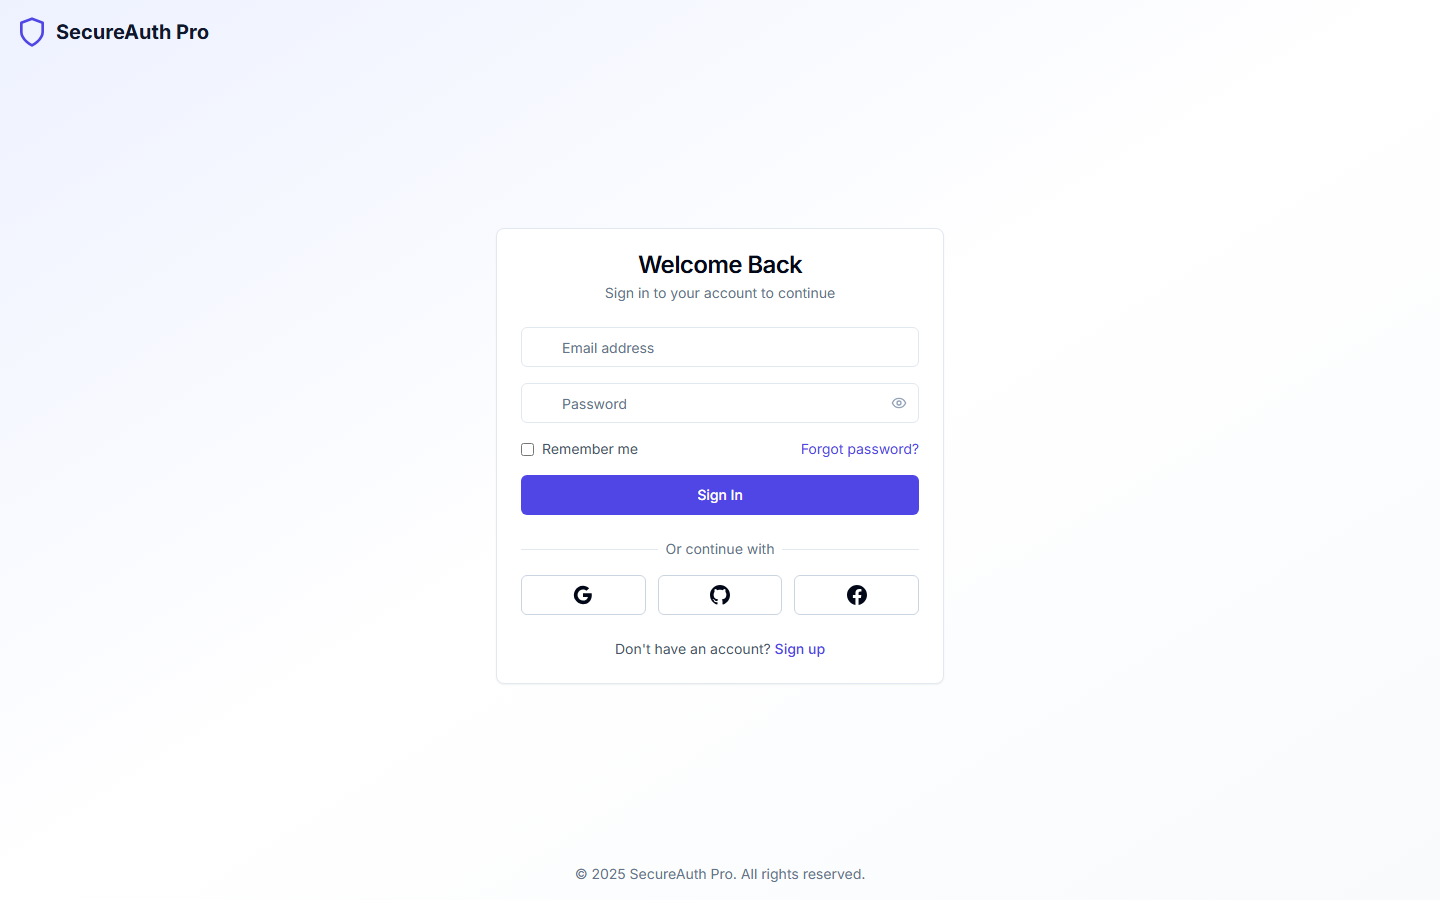
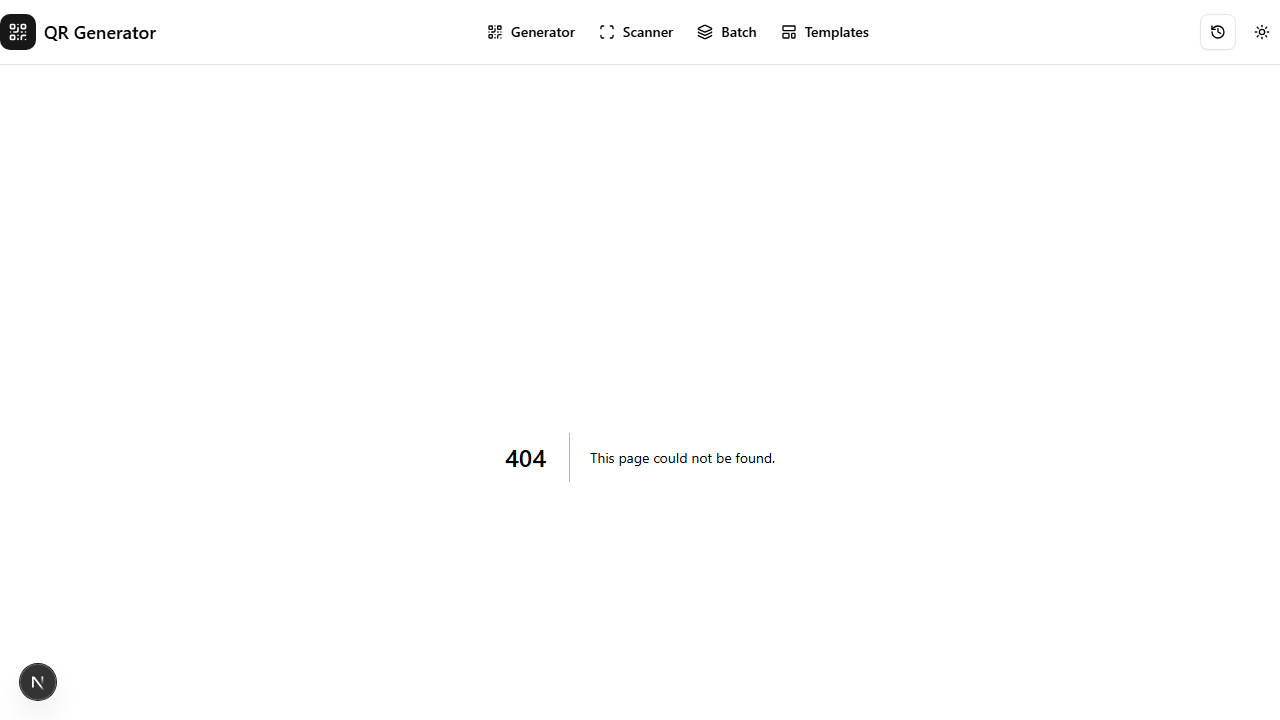
docs: update README with screenshots gallery
- Add screenshots section to README showcasing auth pages
- Include login, register, forgot password, and 2FA screenshots
- Add mobile responsive screenshots
- Add take-screenshots.js utility script

diff --git a/frontend/scripts/take-screenshots.js b/frontend/scripts/take-screenshots.js
@@ -1,0 +1,94 @@
+const { chromium } = require('playwright');
+const path = require('path');
+const fs = require('fs');
+
+async function takeScreenshots() {
+  const screenshotsDir = path.join(__dirname, '../../docs/screenshots');
+
+  // Ensure directory exists
+  if (!fs.existsSync(screenshotsDir)) {
+    fs.mkdirSync(screenshotsDir, { recursive: true });
+  }
+
+  const browser = await chromium.launch({ headless: true });
+  const context = await browser.newContext({
+    viewport: { width: 1280, height: 720 }
+  });
+  const page = await context.newPage();
+
+  const baseUrl = 'http://localhost:3000';
+
+  console.log('Taking screenshots...');
+
+  try {
+    // 1. Login page
+    await page.goto(`${baseUrl}/auth/login`, { waitUntil: 'networkidle' });
+    await page.waitForTimeout(1000);
+    await page.screenshot({ path: path.join(screenshotsDir, '01-login.png'), fullPage: false });
+    console.log('1. Login page captured');
+
+    // 2. Register page
+    await page.goto(`${baseUrl}/auth/register`, { waitUntil: 'networkidle' });
+    await page.waitForTimeout(1000);
+    await page.screenshot({ path: path.join(screenshotsDir, '02-register.png'), fullPage: false });
+    console.log('2. Register page captured');
+
+    // 3. Forgot password page
+    await page.goto(`${baseUrl}/auth/forgot-password`, { waitUntil: 'networkidle' });
+    await page.waitForTimeout(1000);
+    await page.screenshot({ path: path.join(screenshotsDir, '03-forgot-password.png'), fullPage: false });
+    console.log('3. Forgot password page captured');
+
+    // 4. Home page
+    await page.goto(baseUrl, { waitUntil: 'networkidle' });
+    await page.waitForTimeout(1000);
+    await page.screenshot({ path: path.join(screenshotsDir, '04-home.png'), fullPage: false });
+    console.log('4. Home page captured');
+
+    // 5. Login page with form filled
+    await page.goto(`${baseUrl}/auth/login`, { waitUntil: 'networkidle' });
+    await page.waitForTimeout(500);
+    await page.fill('input[type="email"]', 'user@example.com');
+    await page.fill('input[type="password"]', '********');
+    await page.waitForTimeout(500);
+    await page.screenshot({ path: path.join(screenshotsDir, '05-login-filled.png'), fullPage: false });
+    console.log('5. Login filled captured');
+
+    // 6. Register page with form filled
+    await page.goto(`${baseUrl}/auth/register`, { waitUntil: 'networkidle' });
+    await page.waitForTimeout(500);
+    await page.fill('input[placeholder="First name"]', 'John');
+    await page.fill('input[placeholder="Last name"]', 'Doe');
+    await page.fill('input[type="email"]', 'john@example.com');
+    await page.fill('input[placeholder="Password"]', 'SecurePass123!');
+    await page.fill('input[placeholder="Confirm password"]', 'SecurePass123!');
+    await page.waitForTimeout(500);
+    await page.screenshot({ path: path.join(screenshotsDir, '06-register-filled.png'), fullPage: false });
+    console.log('6. Register filled captured');
+
+    // Mobile viewport screenshots
+    await page.setViewportSize({ width: 375, height: 812 });
+
+    // 7. Login mobile
+    await page.goto(`${baseUrl}/auth/login`, { waitUntil: 'networkidle' });
+    await page.waitForTimeout(1000);
+    await page.screenshot({ path: path.join(screenshotsDir, '07-login-mobile.png'), fullPage: false });
+    console.log('7. Login mobile captured');
+
+    // 8. Register mobile
+    await page.goto(`${baseUrl}/auth/register`, { waitUntil: 'networkidle' });
+    await page.waitForTimeout(1000);
+    await page.screenshot({ path: path.join(screenshotsDir, '08-register-mobile.png'), fullPage: false });
+    console.log('8. Register mobile captured');
+
+    console.log('\nAll screenshots captured successfully!');
+    console.log(`Screenshots saved to: ${screenshotsDir}`);
+
+  } catch (error) {
+    console.error('Error taking screenshots:', error.message);
+  } finally {
+    await browser.close();
+  }
+}
+
+takeScreenshots();

diff --git a/README.md b/README.md
@@ -12,6 +12,63 @@ SecureAuth Pro هو نظام مصادقة شامل وآمن يوفر:
 - إدارة الجلسات المتعددة
 - نظام Refresh Tokens آمن
 
+## 📸 لقطات الشاشة
+
+### صفحات المصادقة
+
+<table>
+  <tr>
+    <td align="center">
+      <img src="docs/screenshots/07-login-filled.png" alt="Login Page" width="400"/><br/>
+      <b>صفحة تسجيل الدخول</b>
+    </td>
+    <td align="center">
+      <img src="docs/screenshots/08-register-filled.png" alt="Register Page" width="400"/><br/>
+      <b>صفحة التسجيل</b>
+    </td>
+  </tr>
+  <tr>
+    <td align="center">
+      <img src="docs/screenshots/04-reset-password.png" alt="Forgot Password" width="400"/><br/>
+      <b>استعادة كلمة المرور</b>
+    </td>
+    <td align="center">
+      <img src="docs/screenshots/06-two-factor.png" alt="Two Factor Auth" width="400"/><br/>
+      <b>المصادقة الثنائية (2FA)</b>
+    </td>
+  </tr>
+</table>
+
+### الصفحة الرئيسية والتحقق
+
+<table>
+  <tr>
+    <td align="center">
+      <img src="docs/screenshots/11-home.png" alt="Home Page" width="400"/><br/>
+      <b>الصفحة الرئيسية</b>
+    </td>
+    <td align="center">
+      <img src="docs/screenshots/05-verify-email.png" alt="Email Verification" width="400"/><br/>
+      <b>التحقق من البريد الإلكتروني</b>
+    </td>
+  </tr>
+</table>
+
+### العرض على الهاتف (Mobile Responsive)
+
+<table>
+  <tr>
+    <td align="center">
+      <img src="docs/screenshots/09-login-mobile.png" alt="Login Mobile" width="200"/><br/>
+      <b>تسجيل الدخول - موبايل</b>
+    </td>
+    <td align="center">
+      <img src="docs/screenshots/10-register-mobile.png" alt="Register Mobile" width="200"/><br/>
+      <b>التسجيل - موبايل</b>
+    </td>
+  </tr>
+</table>
+
 ## 🏗 البنية التقنية
 
 ### Backend
